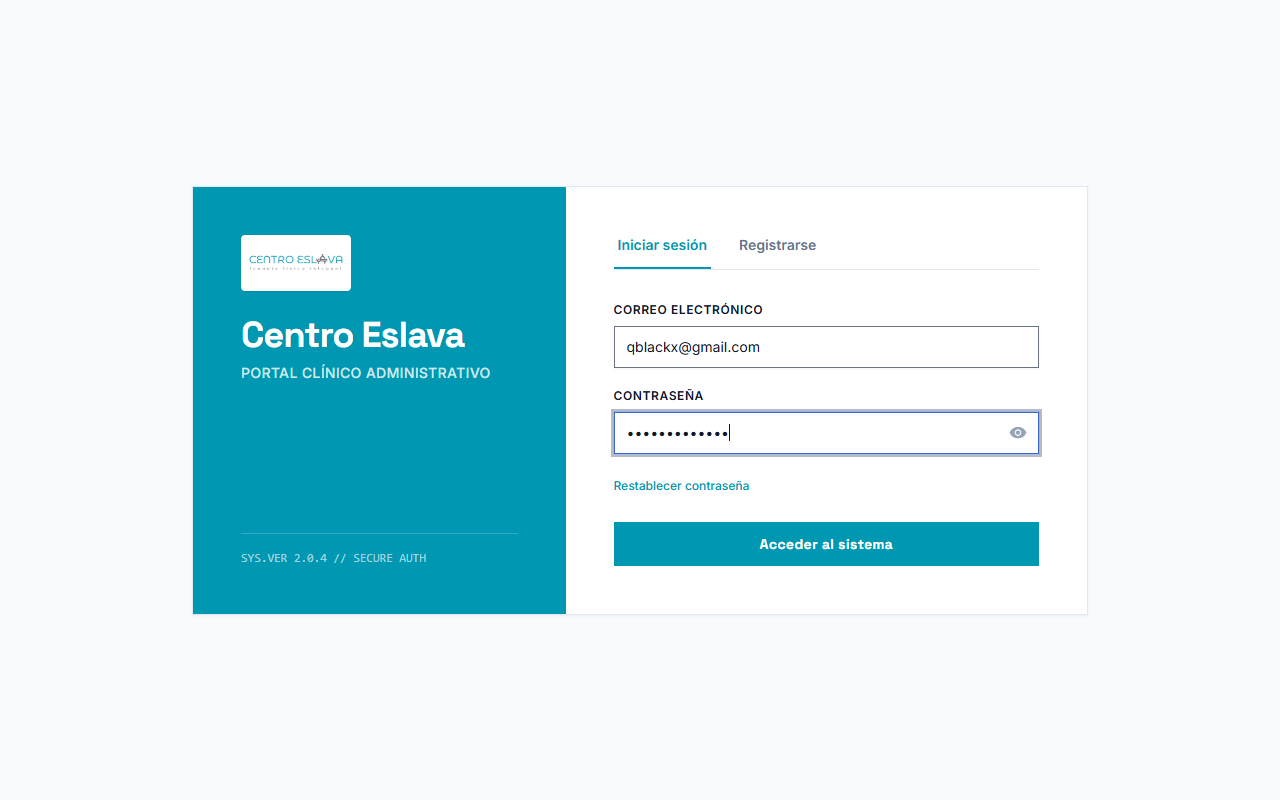
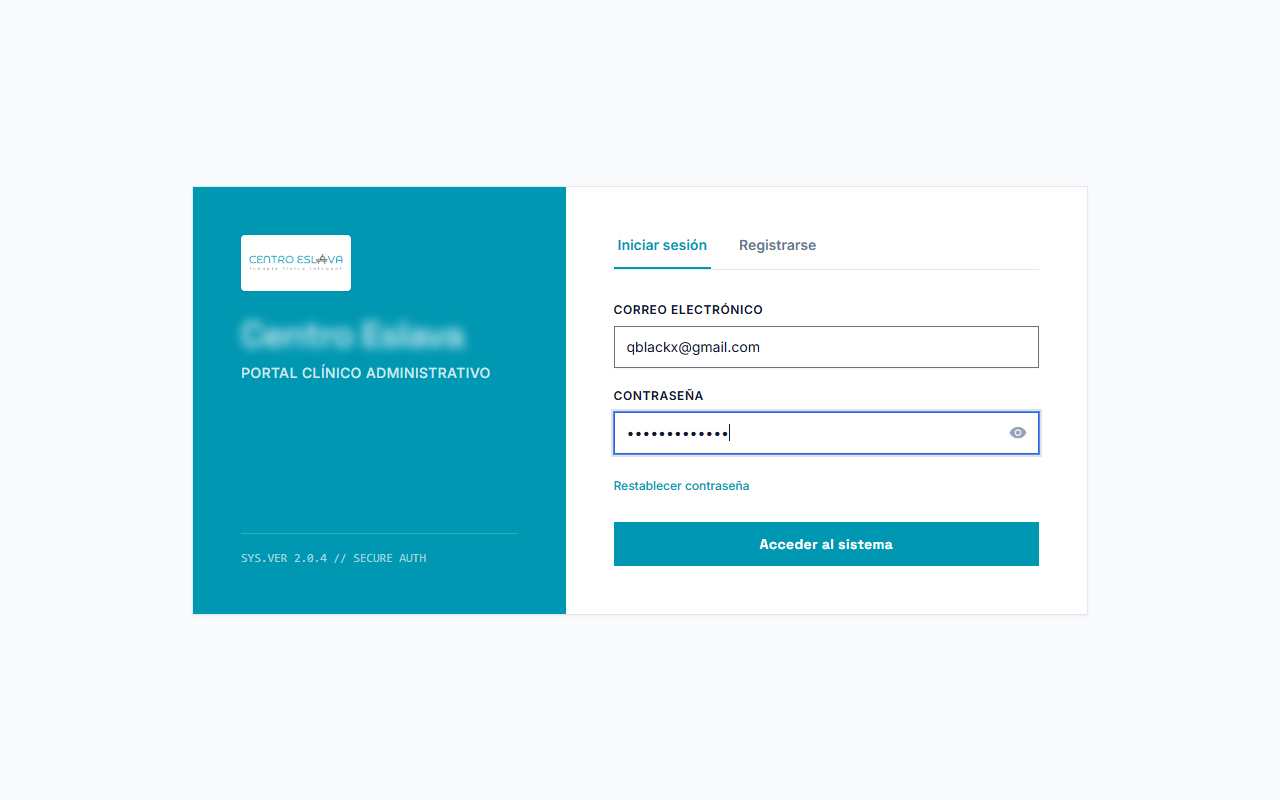
Solucionar bug de autocompletado y agregar funcionalidad de colores a citas

Changed region(s): [[0.4688, 0.5, 0.8125, 0.5312], [0.5, 0.5625, 0.8125, 0.5938], [0.1875, 0.375, 0.375, 0.4375]]

diff --git a/capture_screenshots.js b/capture_screenshots.js
@@ -1,6 +1,33 @@
 const puppeteer = require('puppeteer');
 const fs = require('fs');
 
+async function blurSensitiveInfo(page) {
+    await page.evaluate(() => {
+        const sensitiveTexts = [
+            'qblackx@gmail.com', 
+            'Augusto', 
+            'Dev', 
+            'Root',
+            'ROOT',
+            'Centro Eslava',
+            'Centro',
+            'Eslava'
+        ];
+        
+        const walk = document.createTreeWalker(document.body, NodeFilter.SHOW_TEXT, null, false);
+        let node;
+        while (node = walk.nextNode()) {
+            const text = node.nodeValue;
+            if (sensitiveTexts.some(s => text.toLowerCase().includes(s.toLowerCase()))) {
+                if (node.parentElement && node.parentElement.tagName !== 'SCRIPT' && node.parentElement.tagName !== 'STYLE') {
+                    node.parentElement.style.filter = 'blur(5px)';
+                    node.parentElement.style.opacity = '0.7';
+                }
+            }
+        }
+    });
+}
+
 (async () => {
     const browser = await puppeteer.launch({ headless: 'new' });
     const page = await browser.newPage();
@@ -19,11 +46,13 @@ const fs = require('fs');
     await page.type('#login-user', 'qblackx@gmail.com');
     await page.type('#login-pass', 'Augusto451900');
     
+    await blurSensitiveInfo(page);
     await page.screenshot({ path: `screenshots/debug_before_click.png` });
     console.log('Clicking login...');
     await page.click('#form-login button[type="submit"]');
     
     await new Promise(r => setTimeout(r, 5000));
+    await blurSensitiveInfo(page);
     await page.screenshot({ path: `screenshots/debug_after_click.png` });
 
     console.log('Taking page screenshots...');
@@ -31,38 +60,15 @@ const fs = require('fs');
         { name: 'calendario', url: 'https://c-eslava-b.pages.dev/html/calendario_dashboard_desktop.html' },
         { name: 'pacientes', url: 'https://c-eslava-b.pages.dev/html/gestion_pacientes_desktop.html' },
         { name: 'citas', url: 'https://c-eslava-b.pages.dev/html/citas_listado_desktop.html' },
-        { name: 'facturacion', url: 'https://c-eslava-b.pages.dev/html/pagos_facturacion_desktop.html' }
+        { name: 'facturacion', url: 'https://c-eslava-b.pages.dev/html/pagos_facturacion_desktop.html' },
+        { name: 'pendientes', url: 'https://c-eslava-b.pages.dev/html/pedidos_desktop.html' }
     ];
 
     for (const p of pages) {
         await page.goto(p.url, { waitUntil: 'networkidle2' });
         await new Promise(r => setTimeout(r, 2000));
         
-        // Blur sensitive information
-        await page.evaluate(() => {
-            const sensitiveTexts = [
-                'qblackx@gmail.com', 
-                'Augusto', 
-                'Dev', 
-                'Root',
-                'ROOT',
-                'Centro Eslava',
-                'Centro',
-                'Eslava'
-            ];
-            
-            const walk = document.createTreeWalker(document.body, NodeFilter.SHOW_TEXT, null, false);
-            let node;
-            while (node = walk.nextNode()) {
-                const text = node.nodeValue;
-                if (sensitiveTexts.some(s => text.toLowerCase().includes(s.toLowerCase()))) {
-                    if (node.parentElement && node.parentElement.tagName !== 'SCRIPT' && node.parentElement.tagName !== 'STYLE') {
-                        node.parentElement.style.filter = 'blur(5px)';
-                        node.parentElement.style.opacity = '0.7';
-                    }
-                }
-            }
-        });
+        await blurSensitiveInfo(page);
 
         await page.screenshot({ path: `screenshots/${p.name}.png` });
         console.log(`Saved screenshot for ${p.name}`);

diff --git a/js/services/calendarioService.js b/js/services/calendarioService.js
@@ -14,19 +14,32 @@ class CalendarioService {
     static mapCitaToCalendarEvent(c, data, serviciosActivos) {
         let color = '#3b82f6'; // default blue
         let classNames = [];
+        let hasCustomColor = false;
+        
+        if (c.notas) {
+            if (c.notas.includes('[Azul]')) { color = '#3b82f6'; hasCustomColor = true; }
+            else if (c.notas.includes('[Amarillo]')) { color = '#eab308'; hasCustomColor = true; }
+            else if (c.notas.includes('[Rojo]')) { color = '#ef4444'; hasCustomColor = true; }
+            else if (c.notas.includes('[Verde]')) { color = '#22c55e'; hasCustomColor = true; }
+        }
         
         const estadoLower = (c.estado || '').toLowerCase();
-        if (estadoLower.includes('pendiente') || estadoLower.includes('sin confirmar') || estadoLower.includes('por confirmar')) {
-            color = '#f59e0b'; // yellow (Por confirmar)
-        } else if (estadoLower.includes('confirmad')) {
-            color = '#10b981'; // green (Confirmada)
-        } else if (estadoLower.includes('progreso')) {
-            color = '#3b82f6'; // blue (En procedimiento)
-        } else if (estadoLower.includes('completad') || estadoLower.includes('atendida')) {
-            color = '#9ca3af'; // gray (Completada)
+        
+        if (!hasCustomColor) {
+            if (estadoLower.includes('pendiente') || estadoLower.includes('sin confirmar') || estadoLower.includes('por confirmar')) {
+                color = '#f59e0b'; // yellow (Por confirmar)
+            } else if (estadoLower.includes('confirmad')) {
+                color = '#10b981'; // green (Confirmada)
+            } else if (estadoLower.includes('progreso')) {
+                color = '#3b82f6'; // blue (En procedimiento)
+            } else if (estadoLower.includes('reprogramar')) {
+                color = '#8b5cf6'; // purple (Reprogramar)
+            }
+        }
+
+        if (estadoLower.includes('completad') || estadoLower.includes('atendida')) {
+            if (!hasCustomColor) color = '#9ca3af'; // gray (Completada)
             classNames.push('opacity-50');
-        } else if (estadoLower.includes('reprogramar')) {
-            color = '#8b5cf6'; // purple (Reprogramar)
         }
 
         let sessionStr = 'Cita Única';
@@ -79,7 +92,14 @@ class CalendarioService {
     }
 
     static generateGoogleCalendarUrl(appointment) {
-        const title = encodeURIComponent(`Cita Centro Eslava - ${appointment.name}`);
+        let titleSuffix = '';
+        if (appointment.notes) {
+            if (appointment.notes.includes('[Azul]')) titleSuffix = ' (No paga)';
+            else if (appointment.notes.includes('[Amarillo]')) titleSuffix = ' (Si paga)';
+            else if (appointment.notes.includes('[Rojo]')) titleSuffix = ' (Evaluación)';
+            else if (appointment.notes.includes('[Verde]')) titleSuffix = ' (1ra vez Descarga)';
+        }
+        const title = encodeURIComponent(`Cita Centro Eslava - ${appointment.name}${titleSuffix}`);
         const details = encodeURIComponent(`Cita médica programada en Centro Eslava.\nPaciente: ${appointment.name}\nTratante: ${appointment.doctor}\nNotas: ${appointment.notes || 'Ninguna'}`);
         const location = encodeURIComponent("Centro Eslava, Lima, Perú");
         

diff --git a/js/controllers/calendarioController.js b/js/controllers/calendarioController.js
@@ -104,6 +104,7 @@
         document.getElementById("new-appointment-modal").classList.add("hidden");
         document.getElementById("new-appointment-form").reset();
         document.getElementById('appt-date').value = new Date().toISOString().split('T')[0];
+        if (document.getElementById('appt-color')) document.getElementById('appt-color').value = '';
         populateTimeOptions();
     }
 
@@ -190,7 +191,16 @@
                     document.getElementById('appt-treatment').value = tr;
                     if (cita.consultorio) document.getElementById('appt-doctor').value = cita.consultorio;
                     
-                    document.getElementById('appt-notes').value = cita.notas || '';
+                    let finalNotes = cita.notas || '';
+                    let colorCode = "";
+                    if (finalNotes.startsWith("[Azul]")) { colorCode = "Azul"; finalNotes = finalNotes.substring(6).trim(); }
+                    else if (finalNotes.startsWith("[Amarillo]")) { colorCode = "Amarillo"; finalNotes = finalNotes.substring(10).trim(); }
+                    else if (finalNotes.startsWith("[Rojo]")) { colorCode = "Rojo"; finalNotes = finalNotes.substring(6).trim(); }
+                    else if (finalNotes.startsWith("[Verde]")) { colorCode = "Verde"; finalNotes = finalNotes.substring(7).trim(); }
+                    
+                    document.getElementById('appt-notes').value = finalNotes;
+                    const elColor = document.getElementById('appt-color');
+                    if (elColor) elColor.value = colorCode;
                     
                     window.editingCitaId = cita.id;
                     // Populate time options first
@@ -568,7 +578,11 @@
             }
         }
         
-        const notes = document.getElementById("appt-notes").value;
+        let notes = document.getElementById("appt-notes").value;
+        const colorVal = document.getElementById("appt-color") ? document.getElementById("appt-color").value : "";
+        if (colorVal) {
+            notes = `[${colorVal}] ${notes}`;
+        }
 
         try {
             // Check if patient exists or create new
@@ -671,6 +685,7 @@ const { data: citasPrevias, error: countError } = await window.db.from('citas').
             // Reload dashboard data
             cargarCitas();
             cargarEstadisticas();
+            await cargarPacientesSelect();
 
         } catch (error) {
             console.error('Error al guardar cita:', error);

diff --git a/html/calendario_dashboard_desktop.html b/html/calendario_dashboard_desktop.html
@@ -219,6 +219,16 @@
                         <option value="Lic. Fisioterapia">Lic. Fisioterapia</option>
                     </select>
                 </div>
+                <div class="col-span-2">
+                    <label class="block text-sm font-semibold text-on-surface-variant mb-1">Tipo de Cita (Color)</label>
+                    <select id="appt-color" class="w-full bg-surface-container-low border-none rounded-xl py-3 px-4 text-body-md focus:ring-2 focus:ring-primary">
+                        <option value="">Por defecto (Azul/Normal)</option>
+                        <option value="Azul">Azul: No paga</option>
+                        <option value="Amarillo">Amarillo: Si paga</option>
+                        <option value="Rojo">Rojo: Evaluación</option>
+                        <option value="Verde">Verde: Primera vez Descarga Muscular</option>
+                    </select>
+                </div>
             </div>
             <div id="info-sesiones-alerta" class="hidden p-4 bg-primary/5 border border-primary/20 rounded-2xl text-xs text-primary flex items-start gap-2">
                 <span class="material-symbols-outlined text-[16px] mt-0.5">info</span>

diff --git a/html/calendario_dashboard_mobile.html b/html/calendario_dashboard_mobile.html
@@ -259,6 +259,16 @@
                         <option value="Lic. Fisioterapia">Lic. Fisioterapia</option>
                     </select>
                 </div>
+                <div class="col-span-2">
+                    <label class="block text-sm font-semibold text-on-surface-variant mb-1">Tipo de Cita (Color)</label>
+                    <select id="appt-color" class="w-full bg-surface-container-low border-none rounded-xl py-3 px-4 text-body-md focus:ring-2 focus:ring-primary">
+                        <option value="">Por defecto (Azul/Normal)</option>
+                        <option value="Azul">Azul: No paga</option>
+                        <option value="Amarillo">Amarillo: Si paga</option>
+                        <option value="Rojo">Rojo: Evaluación</option>
+                        <option value="Verde">Verde: Primera vez Descarga Muscular</option>
+                    </select>
+                </div>
             </div>
             <div id="info-sesiones-alerta" class="hidden p-4 bg-primary/5 border border-primary/20 rounded-2xl text-xs text-primary flex items-start gap-2">
                 <span class="material-symbols-outlined text-[16px] mt-0.5">info</span>
